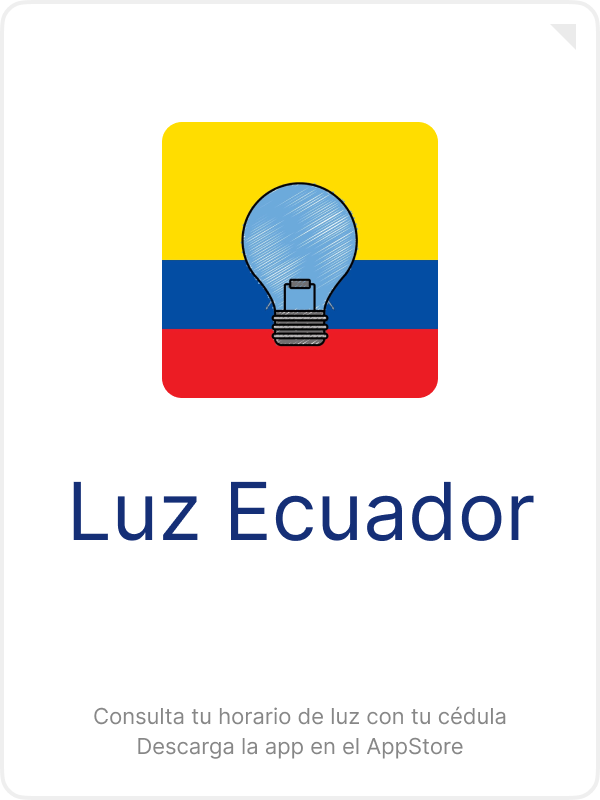
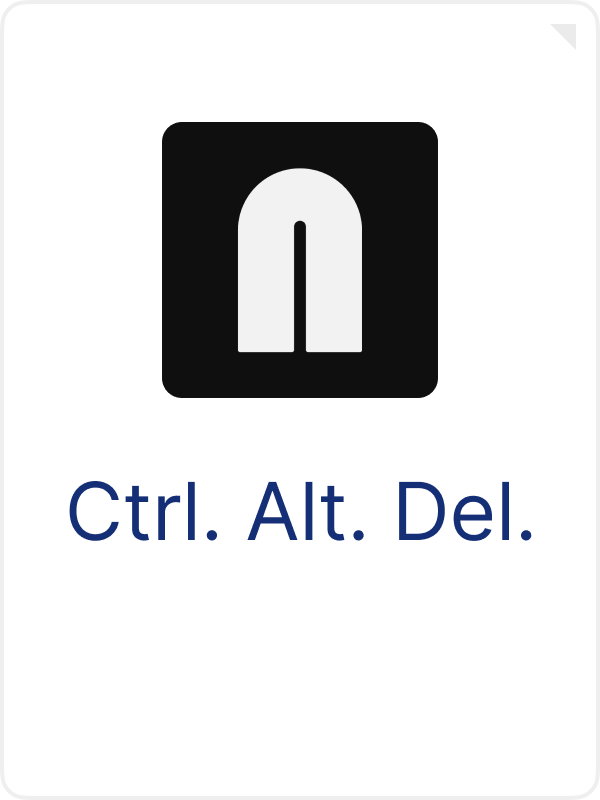
init cad

Changed region(s): [[0.27, 0.125, 0.75, 0.5], [0.09, 0.5938, 0.9, 0.6875], [0.15, 0.875, 0.84, 0.9688]]

diff --git a/index.html b/index.html
@@ -3,7 +3,7 @@
 <head>
 	<meta charset="UTF-8">
 	<meta name="viewport" content="width=device-width, initial-scale=1.0">
-	<title>Luz Ecuador</title>
+	<title>Ctrl. Alt. Del.</title>
 	<style>
 		* { 
 			margin: 0; 
@@ -21,7 +21,7 @@
 	</style>
 </head>
 <body>
-	<a href="https://github.com/GianniCarlo/luzecuador.github.io"><img src="placeholder.png" alt="Luz Ecuador - Consulta tu horario de luz con tu cédula" width="300" height="400"></a>
+	<a href="https://github.com/GianniCarlo/cad.github.io"><img src="placeholder.png" alt="Control. Alt. Del." width="300" height="400"></a>
 </body>
 </html>
 

diff --git a/README.md b/README.md
@@ -1,4 +1,3 @@
-# Luz Ecuador app
+# CAD app
 
-This is the website repository for Luz Ecuador app
- 
+Placeholder website for CAD
